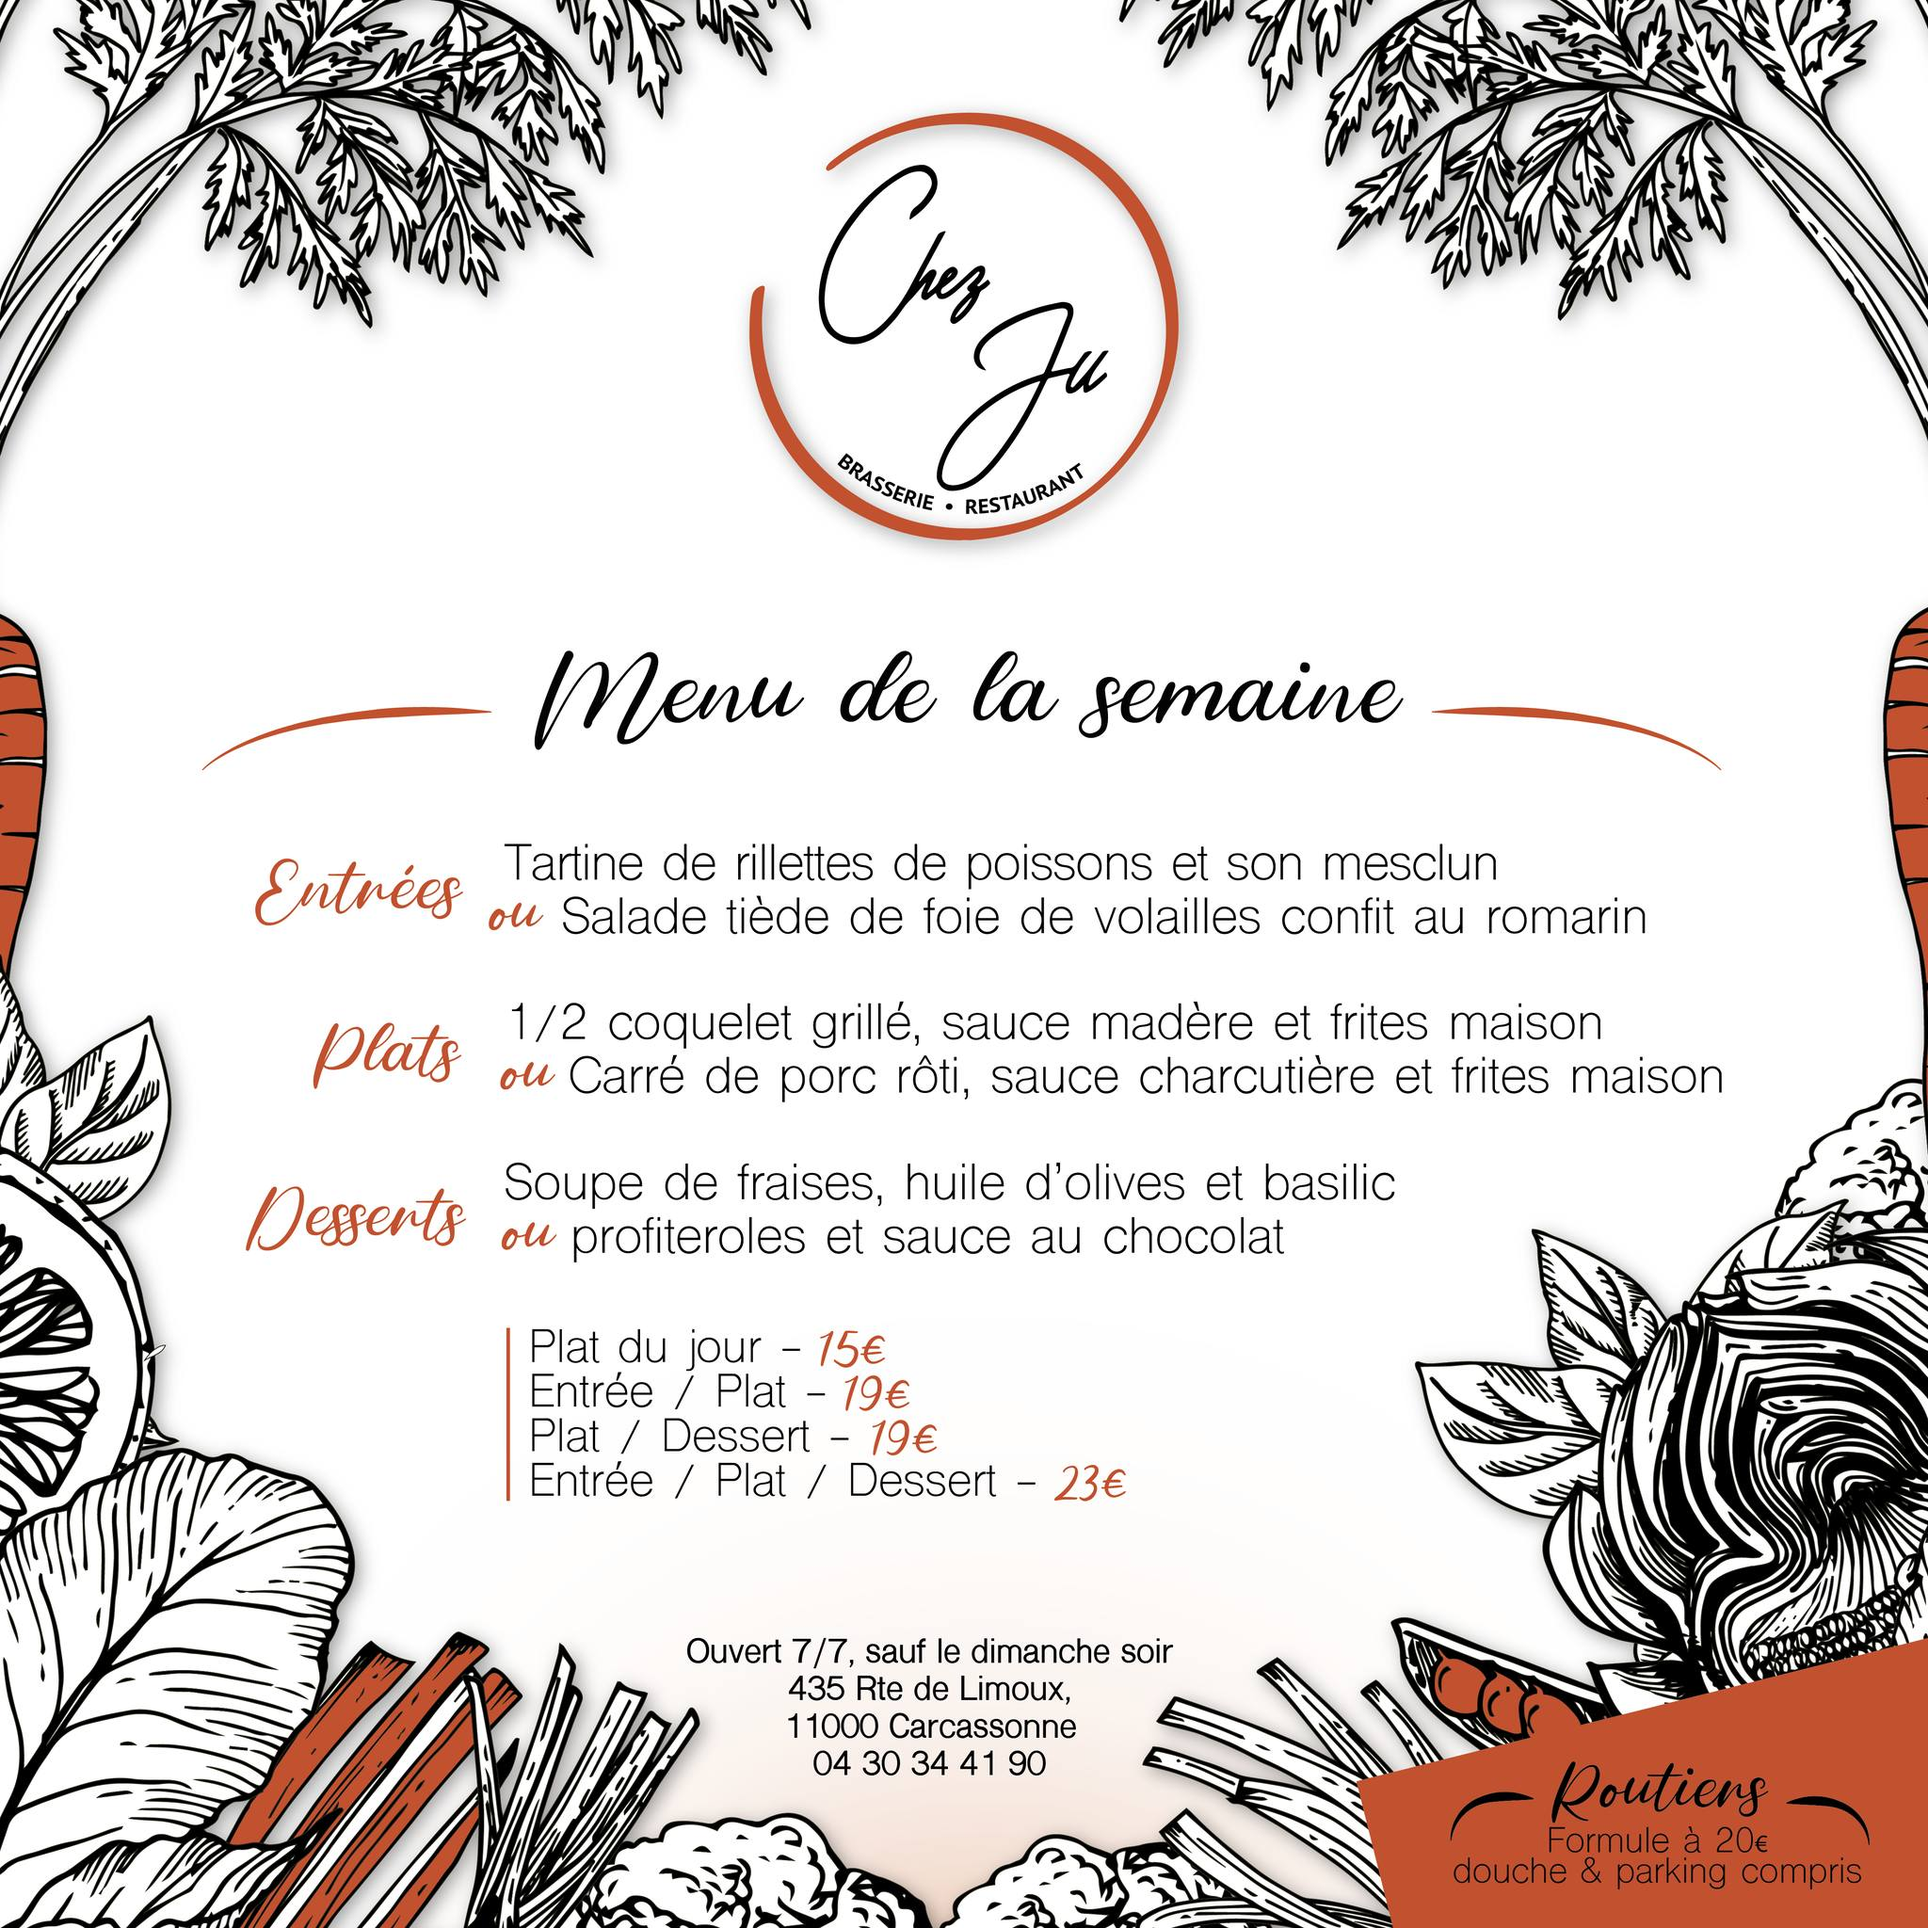
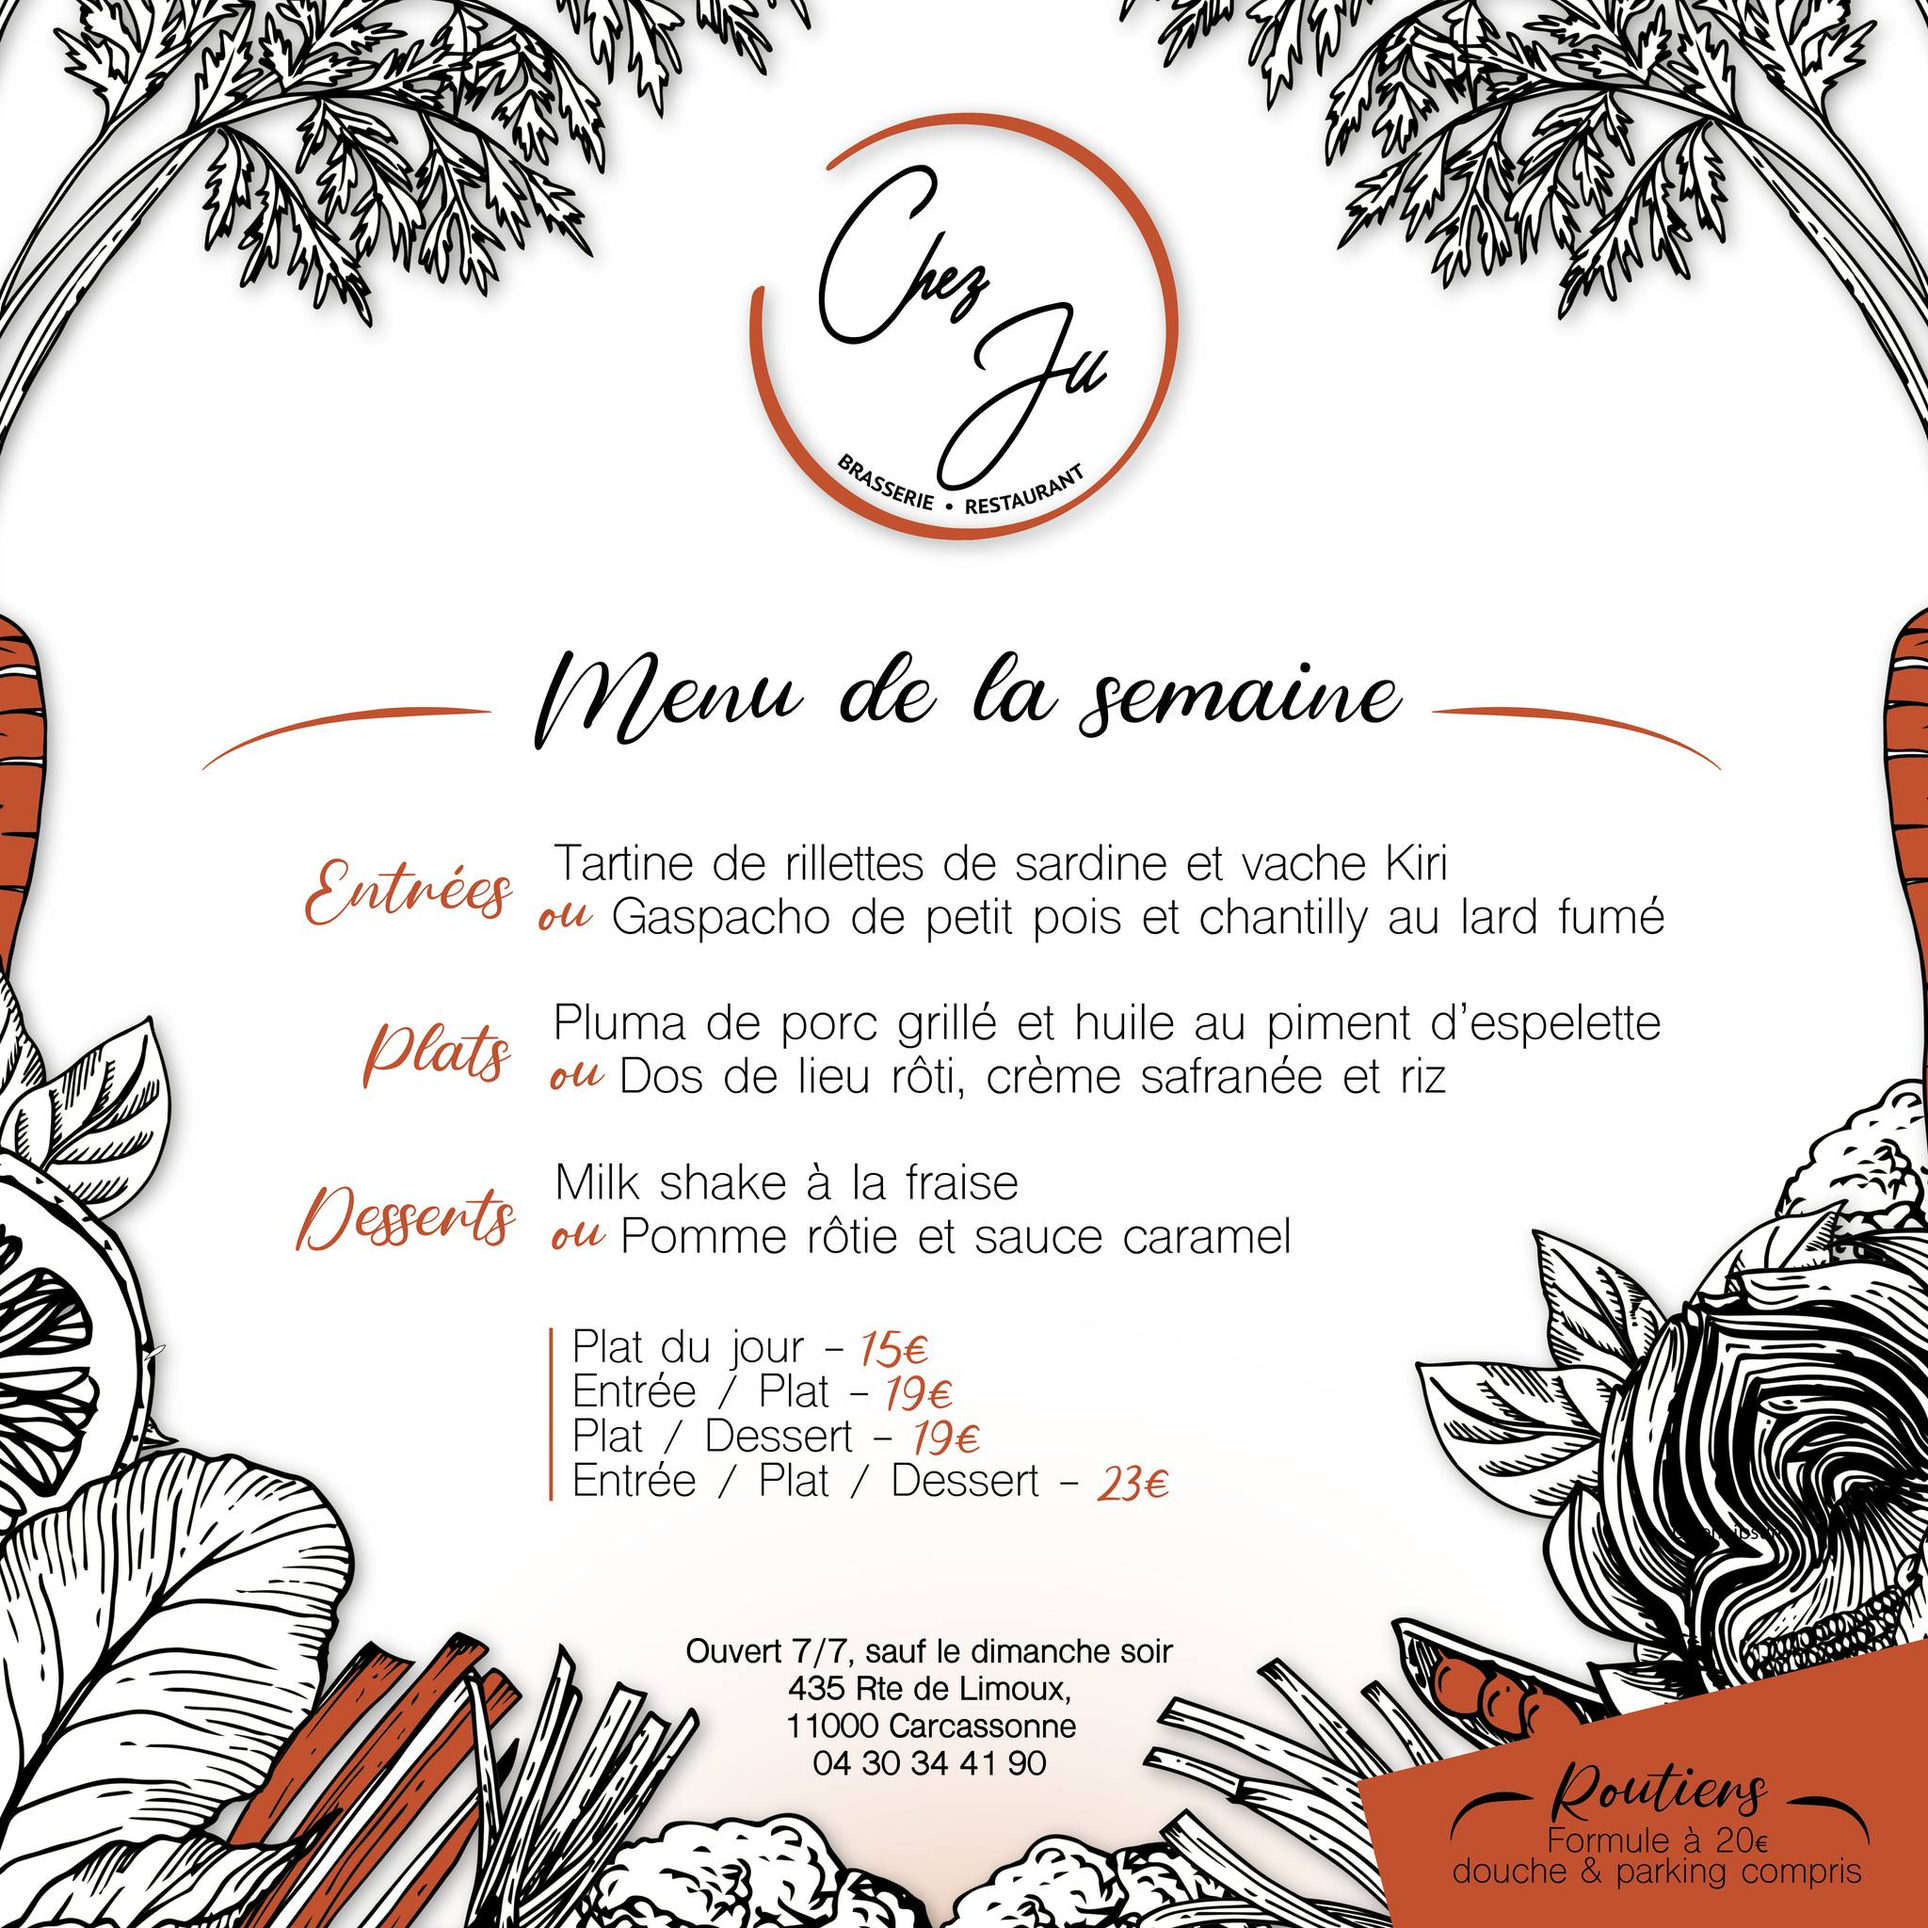
update: revise Instagram posts with new images, URLs, and menu descriptions for May 19-23

diff --git a/components/home/InstagramFeed.vue b/components/home/InstagramFeed.vue
@@ -104,17 +104,17 @@ interface InstagramPost {
 const instagramPosts = ref<InstagramPost[]>([
   {
     id: '1',
-    imageUrl: '/images/instagram/truffe.jpg',
-    postUrl: 'https://www.instagram.com/p/DE5OHkVIKSz/',
-    title: 'Menu spécial truffe',
-    description: 'Vendredi 7 février'
+    imageUrl: '/images/instagram/mere.jpg',
+    postUrl: 'https://www.instagram.com/p/DJuNhWwika5/',
+    title: 'Menu fête des mères',
+    description: 'Dimanche 25 mai'
   },
   {
     id: '2',
     imageUrl: '/images/instagram/menu_semaine.jpg',
-    postUrl: 'https://www.instagram.com/p/DJeAphRv1Zp/',
+    postUrl: 'https://www.instagram.com/p/DJzTpF6v0Sx/',
     title: 'Menu de la semaine',
-    description: 'Du lundi 12 mai au vendredi 16 mai'
+    description: 'Du lundi 19 mai au vendredi 23 mai'
   },
   {
     id: '3',
